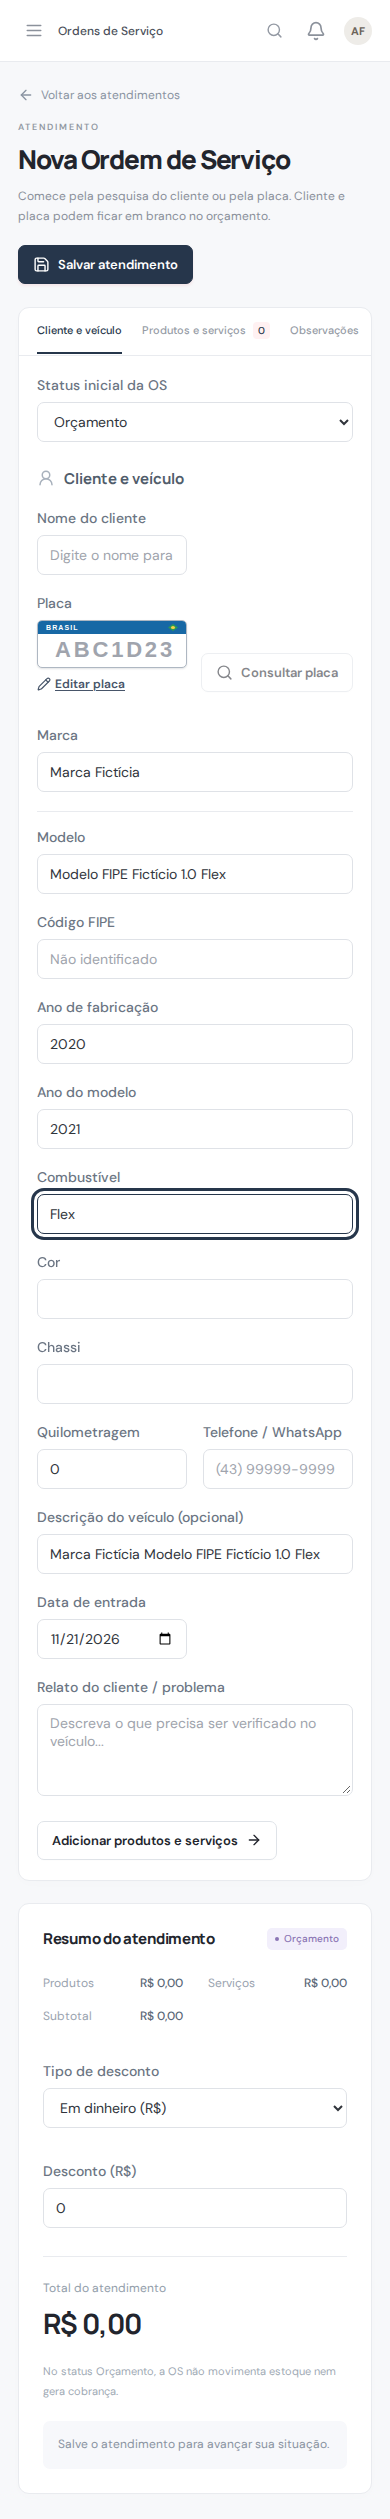
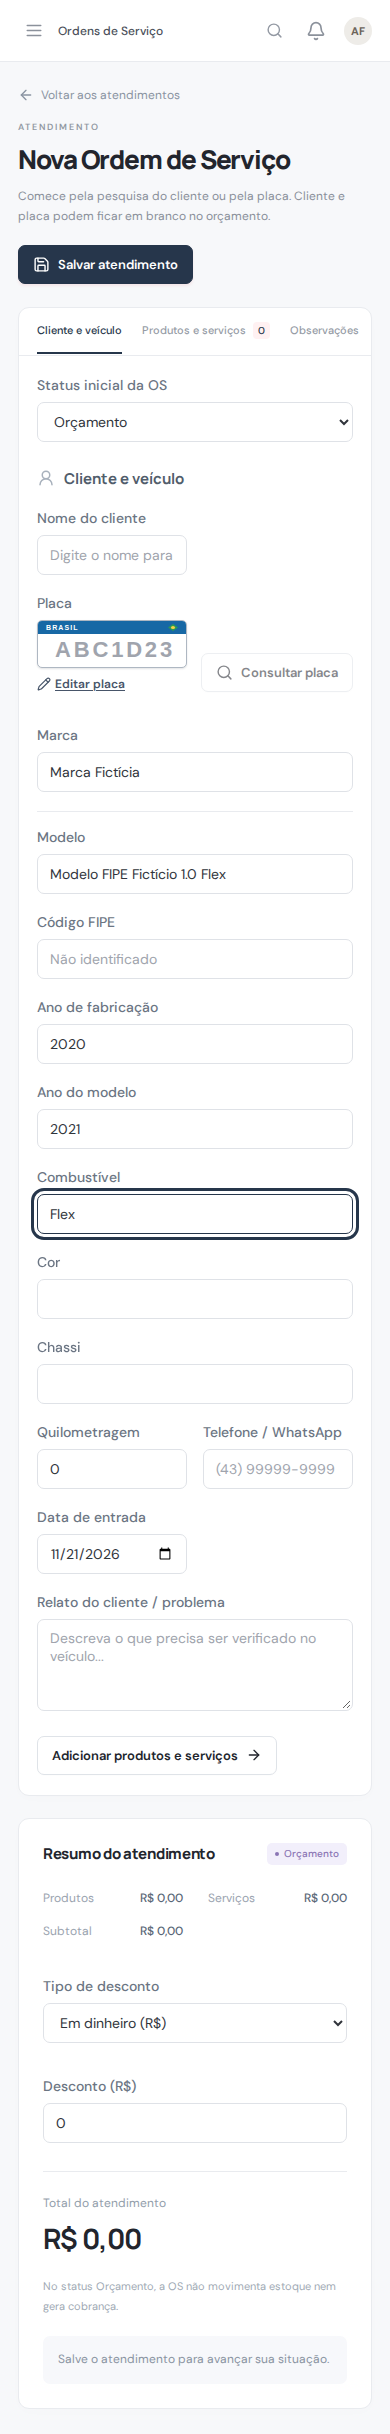
Preservar modelo ao reabrir orçamento sem placa (#235)
* Restaurar modelo do orçamento avulso na edição

* Testar persistência do modelo na criação e edição do orçamento

* Atualizar capturas do orçamento sem placa

* Comparar rollback com as ordens existentes no PostgreSQL fictício

diff --git a/src/pages/OrderEditor.tsx b/src/pages/OrderEditor.tsx
@@ -112,7 +112,9 @@ function Editor({ order, quote }: { order?: Entity; quote: boolean }) {
     data.customers.find((c) => c.id === order?.customer_id)?.phone || "",
   );
   const initialVehicle = data.vehicles.find((v) => v.id === order?.vehicle_id);
-  const [lookedUp, setLookedUp] = useState<Record<string, any>>(initialVehicle || {});
+  const [lookedUp, setLookedUp] = useState<Record<string, any>>(() => initialVehicle || {
+    model: !order?.vehicle_id && !order?.guest_plate ? order?.guest_vehicle || "" : "",
+  });
   const [plateCandidates, setPlateCandidates] = useState<FipeCandidate[]>([]);
   const [tab, setTab] = useState(initialCapture && order ? "items" : "details");
   const [itemKind, setItemKind] = useState("product");
@@ -613,7 +615,7 @@ function Editor({ order, quote }: { order?: Entity; quote: boolean }) {
                           handleServiceModelChange(String(next.service_model_id || ""));
                           setForm((current) => ({
                             ...current,
-                            guest_vehicle: [next.brand, vehicleDisplayModel(next)].filter(Boolean).join(" "),
+                            guest_vehicle: !lookupPlate ? vehicleDisplayModel(next) : current.guest_vehicle,
                           }));
                         }} />
                       ) : undefined}
@@ -624,11 +626,6 @@ function Editor({ order, quote }: { order?: Entity; quote: boolean }) {
                     <Field label={!form.customer_id && customerName.trim() ? "Telefone / WhatsApp *" : "Telefone / WhatsApp"}>
                       <input type="tel" autoComplete="tel" maxLength={60} value={customerPhone} readOnly={!!form.customer_id} required={!form.customer_id && !!customerName.trim()} placeholder="(43) 99999-9999" onChange={(e) => setCustomerPhone(e.target.value)} />
                     </Field>
-                    {form.status === "quote" && !lookupPlate && !form.vehicle_id && (
-                      <Field label="Descrição do veículo (opcional)" full>
-                        <input maxLength={200} value={form.guest_vehicle} onChange={(e) => set("guest_vehicle", e.target.value)} />
-                      </Field>
-                    )}
                     {!form.customer_id && customerName.trim() && <p className="muted full">O cliente será cadastrado ao salvar o atendimento.</p>}
                     <Field label="Data de entrada">
                       <input type="date" value={form.entered_on} onChange={(e) => set("entered_on", e.target.value)} />

diff --git a/tests/localPostgres.integration.ts b/tests/localPostgres.integration.ts
@@ -195,6 +195,7 @@ test("PostgreSQL local: autenticação, oficinas, transações e RLS do catálog
     const services=await catalogRead("local-a",()=>searchRepairServices(db,ctx,model,{q:serviceQuery}));
     const service=serviceId ? services.items.find(item=>item.service_id===serviceId) : services.items[0];
     assert.ok(service);
+    const existingOrderIds = (await listOrders(db, "local-a")).map((row) => row.id).sort();
     const stop=new Error("rollback fixture OS");
     await assert.rejects(db.transaction(async()=>{
        await db.prepare("SELECT set_config('app.user_id',?,true)").get(ctx.userId);
@@ -208,7 +209,7 @@ test("PostgreSQL local: autenticação, oficinas, transações e RLS do catálog
       assert.equal((await listOrders(db,"local-b")).length,0);
       throw stop;
     }),e=>e===stop);
-    assert.equal((await listOrders(db,"local-a")).length,0);
+    assert.deepEqual((await listOrders(db, "local-a")).map((row) => row.id).sort(), existingOrderIds);
   });
   await t.test("OS finalizada reabre com reversão atômica e bloqueia recebimento confirmado", async () => {
     const { saveOrder, transitionOrder, listOrders } = await import("../server/services/workshop");

diff --git a/docs/mapeamento-visual/CHECKLIST.md b/docs/mapeamento-visual/CHECKLIST.md
@@ -116,8 +116,8 @@ Estados: capturada, pendente, bloqueada e não aplicável.
 | cad005-review-mobile | Veículos | CAD-005 — Revisão de veículo (mobile) — Formulário real com dados fictícios; modelo em lista suspensa que fecha após a escolha. | [`capturas/04-veiculos/cad005-review-mobile.png`](./capturas/04-veiculos/cad005-review-mobile.png) | capturada | 2026-11-17 | 27c7fb615ef31f460c7b9d12778dfd91fecaba01 | — |
 | cad005-checklist-desktop | Checklist | CAD-005 — Veículo no checklist (desktop) — Formulário real com dados fictícios; modelo em lista suspensa que fecha após a escolha. | [`capturas/05-checklist/cad005-checklist-desktop.png`](./capturas/05-checklist/cad005-checklist-desktop.png) | capturada | 2026-11-17 | 27c7fb615ef31f460c7b9d12778dfd91fecaba01 | — |
 | cad005-checklist-mobile | Checklist | CAD-005 — Veículo no checklist (mobile) — Formulário real com dados fictícios; modelo em lista suspensa que fecha após a escolha. | [`capturas/05-checklist/cad005-checklist-mobile.png`](./capturas/05-checklist/cad005-checklist-mobile.png) | capturada | 2026-11-17 | 27c7fb615ef31f460c7b9d12778dfd91fecaba01 | — |
-| cad005-order-desktop | Orçamentos | CAD-005 — Veículo na abertura do atendimento (desktop) — Formulário real com dados fictícios e identificação pelo campo Modelo. | [`capturas/06-orcamentos/cad005-order-desktop.png`](./capturas/06-orcamentos/cad005-order-desktop.png) | capturada | 2026-11-21 | 61b620b82831eaf2708ff41f3fe7029c98a37584 | — |
-| cad005-order-mobile | Orçamentos | CAD-005 — Veículo na abertura do atendimento (mobile) — Formulário real com dados fictícios e identificação pelo campo Modelo. | [`capturas/06-orcamentos/cad005-order-mobile.png`](./capturas/06-orcamentos/cad005-order-mobile.png) | capturada | 2026-11-21 | 61b620b82831eaf2708ff41f3fe7029c98a37584 | — |
+| cad005-order-desktop | Orçamentos | CAD-005 — Veículo na abertura do atendimento (desktop) — Formulário real com dados fictícios e identificação pelo campo Modelo. | [`capturas/06-orcamentos/cad005-order-desktop.png`](./capturas/06-orcamentos/cad005-order-desktop.png) | capturada | 2026-11-21 | c4c59204f1b2ec5c68966db7ef7c71e332d11bcf | — |
+| cad005-order-mobile | Orçamentos | CAD-005 — Veículo na abertura do atendimento (mobile) — Formulário real com dados fictícios e identificação pelo campo Modelo. | [`capturas/06-orcamentos/cad005-order-mobile.png`](./capturas/06-orcamentos/cad005-order-mobile.png) | capturada | 2026-11-21 | c4c59204f1b2ec5c68966db7ef7c71e332d11bcf | — |
 | cad005-switch-desktop | Ordens de serviço | CAD-005 — Troca de veículo no atendimento (desktop) — Formulário real com dados fictícios e identificação pelo campo Modelo. | [`capturas/07-ordens-servico/cad005-switch-desktop.png`](./capturas/07-ordens-servico/cad005-switch-desktop.png) | capturada | 2026-11-21 | 61b620b82831eaf2708ff41f3fe7029c98a37584 | — |
 | cad005-switch-mobile | Ordens de serviço | CAD-005 — Troca de veículo no atendimento (mobile) — Formulário real com dados fictícios e identificação pelo campo Modelo. | [`capturas/07-ordens-servico/cad005-switch-mobile.png`](./capturas/07-ordens-servico/cad005-switch-mobile.png) | capturada | 2026-11-21 | 61b620b82831eaf2708ff41f3fe7029c98a37584 | — |
 | cad005-register-footer-mobile | Veículos | CAD-005 — Novo veículo (mobile) — rodapé — Formulário real com dados fictícios; modelo em lista suspensa que fecha após a escolha. | [`capturas/04-veiculos/cad005-register-footer-mobile.png`](./capturas/04-veiculos/cad005-register-footer-mobile.png) | capturada | 2026-11-17 | 27c7fb615ef31f460c7b9d12778dfd91fecaba01 | — |

diff --git a/docs/mapeamento-visual/INDEX.md b/docs/mapeamento-visual/INDEX.md
@@ -304,7 +304,7 @@ Formulário real com dados fictícios e identificação pelo campo Modelo.
 
 [![CAD-005 — Veículo na abertura do atendimento (desktop)](./capturas/06-orcamentos/cad005-order-desktop.png)](./capturas/06-orcamentos/cad005-order-desktop.png)
 
-Estado: capturada · desktop · captura 2026-11-21 · commit de origem: 61b620b82831eaf2708ff41f3fe7029c98a37584 · [arquivo completo](./capturas/06-orcamentos/cad005-order-desktop.png)
+Estado: capturada · desktop · captura 2026-11-21 · commit de origem: c4c59204f1b2ec5c68966db7ef7c71e332d11bcf · [arquivo completo](./capturas/06-orcamentos/cad005-order-desktop.png)
 
 ### CAD-005 — Veículo na abertura do atendimento (mobile)
 
@@ -312,7 +312,7 @@ Formulário real com dados fictícios e identificação pelo campo Modelo.
 
 [![CAD-005 — Veículo na abertura do atendimento (mobile)](./capturas/06-orcamentos/cad005-order-mobile.png)](./capturas/06-orcamentos/cad005-order-mobile.png)
 
-Estado: capturada · mobile · captura 2026-11-21 · commit de origem: 61b620b82831eaf2708ff41f3fe7029c98a37584 · [arquivo completo](./capturas/06-orcamentos/cad005-order-mobile.png)
+Estado: capturada · mobile · captura 2026-11-21 · commit de origem: c4c59204f1b2ec5c68966db7ef7c71e332d11bcf · [arquivo completo](./capturas/06-orcamentos/cad005-order-mobile.png)
 
 ## 07 — Ordens de serviço
 
